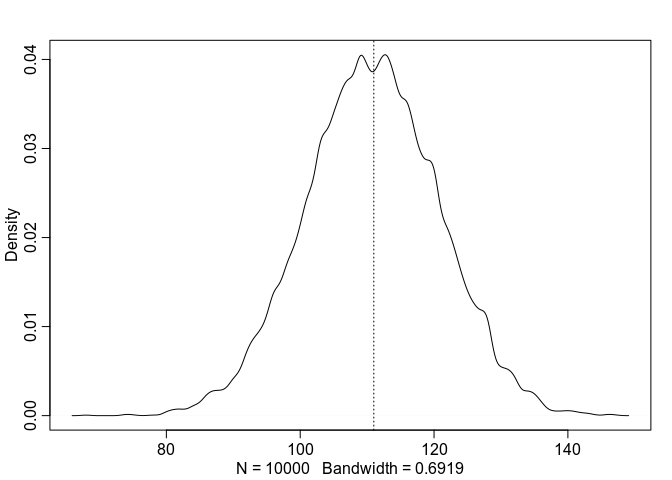
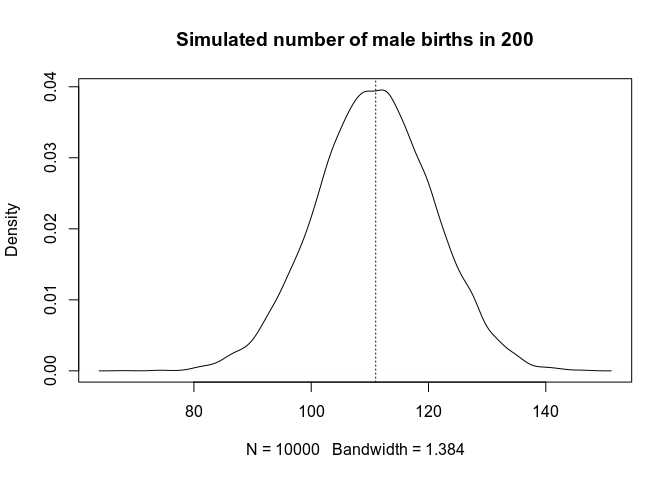
Base density plots look better with discrete data.

diff --git a/chapter3/practice3.md b/chapter3/practice3.md
@@ -347,7 +347,7 @@ Simulate 10^{4} of male births in 200 childbirths based on the current model. Sh
 
 ``` r
 males_in_200 = rbinom(num_samples, size=200, prob=samples4)
-dens(males_in_200)
+males_in_200 %>% density %>% plot(main='Simulated number of male births in 200')
 abline(v=sum(all_births), lty=3)
 ```
 
@@ -359,7 +359,7 @@ Do the same thing for the 100 first-born births.
 
 ``` r
 males_in_100 = rbinom(num_samples, size=100, prob=samples4)
-dens(males_in_100)
+males_in_100 %>% density %>% plot(main='Simulated number of male births in 100')
 abline(v=sum(birth1), lty=3, col='orange')
 ```
 
@@ -387,7 +387,7 @@ birth_after_girl = birth2[first_girl]
 ``` r
 # simulate
 males_after_girl = rbinom(num_samples, size=trials_after_girl, prob=samples4)
-dens(males_after_girl)
+males_after_girl %>% density %>% plot(main=paste('Number of mail births in', trials_after_girl))
 abline(v=num_boy_after_girl, lty=3, col='purple')
 ```
 
